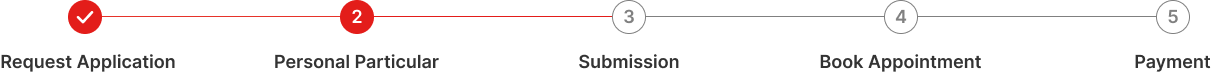
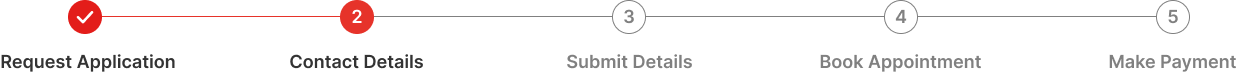
fix change 3 from mr wong

diff --git a/resources/views/home.blade.php b/resources/views/home.blade.php
@@ -44,16 +44,18 @@
         <input type="submit">
     </form>
 <br>
-<p style="color: #808080;">History Applications</p>
+<p style="color: #808080;">My Applications</p>
     <div style="border-style: groove;padding: 10px;">
         <table class="table" >
             <thead>
             <tr>
                 <th scope="col">Application Type</th>
                 <th scope="col" >Request Application</th>
+                <th scope="col" >Date Of Application</th>
                 <th scope="col">Grade</th>
                 <th scope="col" >Status Proses</th>
                 <th scope="col" >Expired Date</th>
+                <th scope="col" >Action</th>
             </tr>
             </thead>
             <tbody>
@@ -82,6 +84,7 @@
                         @elseif($f->card_id == pi_app)
                             <td>PI Application</td>
                         @endif
+                            <td>{{$f->declaration_date}}</td>
                         @if($f->card_id == so_app)
                                 @if(!empty($f->grade_id) && $f->grade_id== so)
                                     <td>SO</td>
@@ -120,6 +123,16 @@
                             <td></td>
                         @endif
 
+                        @if($f->Status_app == submission)
+                            {{--                    @php $url="/history/book/appointment/".$f->app_type."/".$f->card_id; @endphp--}}
+                            @php $url=url("/history/book/appointment/")."/".$f->app_type."/".$f->card_id; @endphp
+                                <td><a href="{{$url}}"><button class="btn btn-primary">To Book Appointment</button></a></td>
+                        @elseif($f->Status_app == book_appointment)
+                            {{--                        @php $url="/history/book/payment/".$f->app_type."/".$f->card_id; @endphp--}}
+                            @php $url=url("/history/book/payment/")."/".$f->app_type."/".$f->card_id; @endphp
+                                <td><a href="{{$url}}"><button class="btn btn-success">To Payment</button></a></td>
+                        @endif
+
                     </tr>
                 @endforeach
             @endif
@@ -141,6 +154,7 @@
                             @elseif($f->card_id == pi_app)
                                 <td>PI Application</td>
                             @endif
+                                <td>{{$f->declaration_date}}</td>
                             @if($f->card_id == so_app)
                                 @if(!empty($f->grade_id) && $f->grade_id== so)
                                     <td>SO</td>
@@ -168,6 +182,7 @@
                             @endif
                             <td>Completed</td>
                             <td>{{$f->expired_date}}</td>
+                            <td></td>
                         </tr>
                 @endforeach
             @endif
@@ -417,12 +432,16 @@
                   }else if(data['so_app'] == true && data['pi_app'] == true){
                       $("#avso_app").prop("disabled", false);
                   }else{
-                     $("#avso_app").prop("disabled", false);
+                      $("#avso_app").prop("disabled", false);
                      $("#pi_app").prop("disabled", false);
                   }
               }else if(data['avso_app'] == true){
-                  $("#pi_app").prop("disabled", false);
-                  $("#so_app").prop("disabled", false);
+                    if(data['avso_app'] == true && data['pi_app'] == true){
+                        $("#so_app").prop("disabled", false);
+                    }else{
+                        $("#pi_app").prop("disabled", false);
+                        $("#so_app").prop("disabled", false);
+                    }
               }else if(data['pi_app'] == true){
                   $("#avso_app").prop("disabled", false);
                   $("#so_app").prop("disabled", false);

diff --git a/resources/views/personal_particular.blade.php b/resources/views/personal_particular.blade.php
@@ -27,8 +27,8 @@
                     <div class="col-0 HeaderdataPersonal">NRIC / FIN &ensp;:</div>
                     <div class="col-6 ColoumndataPersonal">{{$personal->nric}}</div>
                     <div class="w-100"></div>
-                    <div class="col-0 HeaderdataPersonal">Pass ID No &nbsp;:</div>
-                    <div class="col-6 ColoumndataPersonal">{{$personal->passid}}</div>
+                    <div class="col-0 HeaderdataPersonal" hidden>Pass ID No &nbsp;:</div>
+                    <div class="col-6 ColoumndataPersonal" hidden>{{$personal->passid}}</div>
                 </div>
             </div>
             <div class="col-sm">
@@ -44,7 +44,7 @@
     <br>
     <div class="row">
         <div class="col HeaderdataPersonal email">
-            Email
+            Mobile Number
         </div>
         <div class="col">
         </div>
@@ -56,12 +56,12 @@
         @csrf
     <div class="row">
         <div class="col-4 HeaderdataPersonal">
-            <input type="email" class="form-control" id="email" name="email"  placeholder="XXXXXX@gmail.com" value="{{$personal->email}}">
+            <input type="text" class="form-control" id="mobileno" name="mobileno"  placeholder="0000000" value="{{$personal->mobileno}}">
         </div>
         <div class="col-2">
         </div>
         <div class="col-4 HeaderdataPersonal">
-            <input type="text" class="form-control" id="mobileno" name="mobileno"  placeholder="0000000" value="{{$personal->mobileno}}">
+            <input type="text" class="form-control" id="homeno" name="homeno"  placeholder="0000000" value="{{$personal->homeno}}">
         </div>
     </div>
     <br ><br class="hidden-xs"><br class="hidden-xs">

diff --git a/resources/views/submission.blade.php b/resources/views/submission.blade.php
@@ -19,7 +19,7 @@
     <h2 style="color: #E31E1A;">Submission</h2>
     <br>
         {{-- Desktop --}}
-    <h4><b>Submitted Details</b></h4>
+    <h4><b>Details</b></h4>
 
     <div class="container">
             <div class="row hidden-xs">
@@ -190,7 +190,7 @@
 
         @endif
     <br>
-    <h3 style="color: black;font-weight: bold;">Add Photo</h3>
+    <h3 style="color: black;font-weight: bold;">Upload Photo</h3>
     <div class="row">
         <div class="col-2 upload_profile" style="margin-top: 8px; border-style: groove; padding: 5px; margin-left: 10px;">
             <img class="file_upload_profile"  src="{{URL::asset('/img/upload.png')}}" style="width: 80%; margin-left: 20px; margin-top: 20px;">
@@ -201,7 +201,7 @@
             <p>- Photo must be taken within last 3 months</p>
             <p>- Photo must be taken within even brightness</p>
             <p>- Photo must be clear and in sharp focus</p>
-            <p>- Photo must be taken without spectacles in color</p>
+            <p>- Photo must be taken without spectacles</p>
             <p>- Photo background must be white in color</p>
         </div>
     </div>

diff --git a/app/Http/Controllers/HomeController.php b/app/Http/Controllers/HomeController.php
@@ -479,7 +479,7 @@ class HomeController extends Controller
     }
 
     protected function UpdateUsers($request){
-    if(!empty($request['email']) && !empty($request['mobileno'])){
+    if(!empty($request['homeno']) && !empty($request['mobileno'])){
         $UpdateUser = User::find(Auth::id());
 
         $UpdateUser->email = $request['email'];
@@ -487,10 +487,10 @@ class HomeController extends Controller
         $UpdateUser->mobileno = $request['mobileno'];
 
         $UpdateUser->save();
-    }elseif(!empty($request['email'])) {
+    }elseif(!empty($request['homeno'])) {
          $UpdateUser = User::find(Auth::id());
 
-         $UpdateUser->email = $request['email'];
+         $UpdateUser->homeno = $request['homeno'];
 
          $UpdateUser->save();
      }elseif (!empty($request['mobileno'])){
@@ -505,7 +505,7 @@ class HomeController extends Controller
     protected function diff_data($request)
     {
         $originData=array(
-            "email"=>$request->email,
+            "homeno"=>$request->homeno,
             "mobileno"=>$request->mobileno
         );
 
